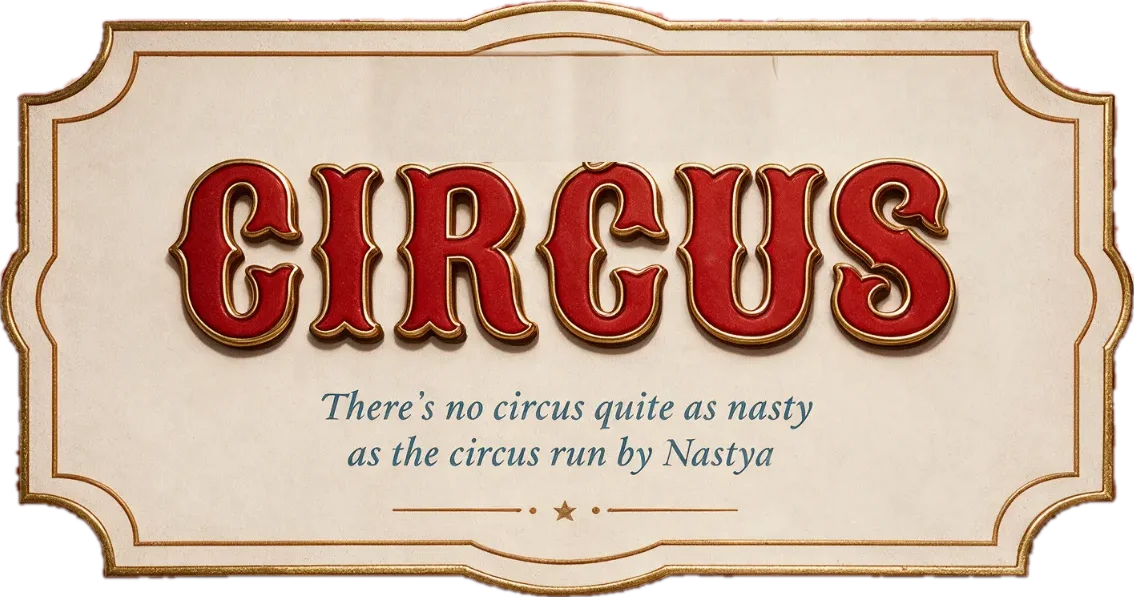
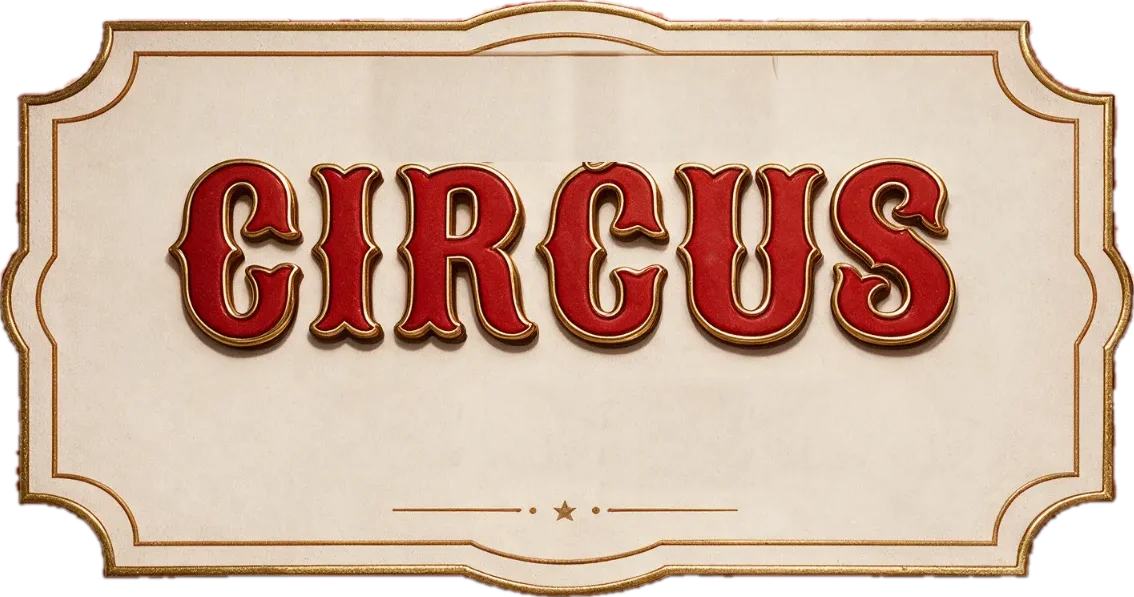
New sign slogan: Halloween party, the nastiest show in town
The old slogan was baked into the sign image; it is erased and the new
line is set as live text so it can change without image edits.

Changed region(s): [[0.2778, 0.6332, 0.7099, 0.7839]]

diff --git a/index.html b/index.html
@@ -151,6 +151,11 @@ body::after {
   text-shadow: 0 .02em 0 #f2cf72, 0 .04em .06em rgba(90,30,0,.35);
   padding: 0 .3em; pointer-events: none;
 }
+.plaque .slogan { /* printed in the same slate ink the sign used */
+  position: absolute; left: 50%; top: 71.6%; transform: translate(-50%, -50%);
+  font: italic 400 2.05cqw/1.32 var(--body); color: #3f5a63; text-align: center; white-space: nowrap;
+  pointer-events: none;
+}
 .plaque.boing .nastya { animation: hop .6s cubic-bezier(.3,1.6,.5,1); }
 @keyframes hop { 30% { transform: translate(-50%, -75%); } 60% { transform: translate(-50%, -45%); } }
 .sr-only { position: absolute; width: 1px; height: 1px; overflow: hidden; clip-path: inset(50%); white-space: nowrap; }
@@ -409,10 +414,11 @@ footer span {
     <div class="plaque" id="plaque">
       <img src="img/plaque.webp" width="1134" height="597" alt="">
       <span class="nastya">Nastya&rsquo;s</span>
+      <span class="slogan">Halloween party:<br>the nastiest show in town</span>
     </div>
   </div>
   <h1 class="sr-only">Nastya&rsquo;s Circus</h1>
-  <p class="sr-only">There&rsquo;s no circus quite as nasty as the circus run by Nastya</p>
+  <p class="sr-only">Halloween party: the nastiest show in town</p>
 </header>
 
 <main class="wrap">
